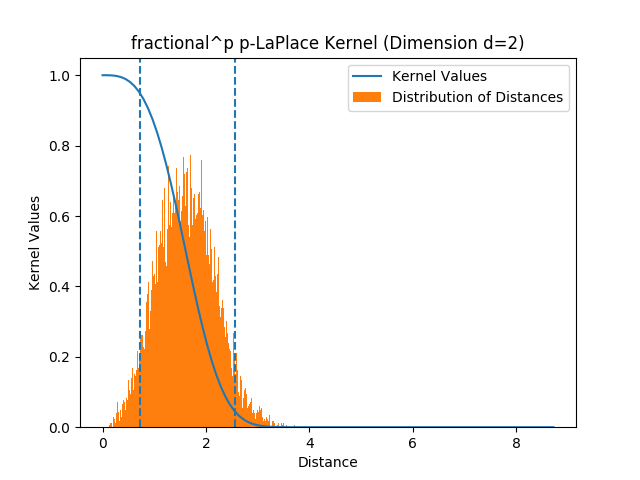
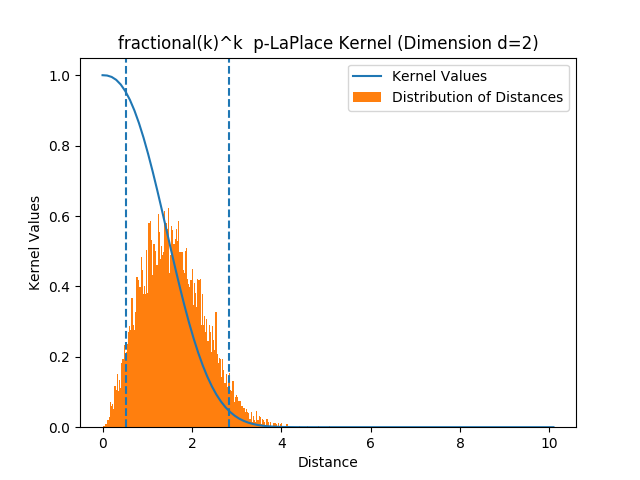
updated hist of kernel values with mean+-3sigma

diff --git a/Presentation 1/Code/c9_fpk_p_kernels.py b/Presentation 1/Code/c9_fpk_p_kernels.py
@@ -7,7 +7,7 @@ from kernel_implementations import *
 dimensions = [ 2, 10, 100 ]
 N = 10000 
 
-k = 0.6
+k = 0.8
 df1 = lambda x : get_distances(x,order=k)**k 
 
 for dim in dimensions:
@@ -28,7 +28,7 @@ for dim in dimensions:
 	ax.axvline(d_95,ls='--')
 	ax.set_xlabel('Distance')
 	ax.set_ylabel('Kernel Values')
-	ax.set_title("fractional^p p-Gaussian (Dimension d="+str(dim)+")")
+	ax.set_title("fractional(k)^k  p-Gaussian (Dimension d="+str(dim)+")")
 	ax.legend() 
 	fig.savefig('../Graphs/g9_improvement_fp_Gaussian_dim='+str(dim)+'.png')
 
@@ -50,7 +50,7 @@ for dim in dimensions:
 	ax.axvline(d_95,ls='--')
 	ax.set_xlabel('Distance')
 	ax.set_ylabel('Kernel Values')
-	ax.set_title("fractional^p p-Rational Quadratic (Dimension d="+str(dim)+")")
+	ax.set_title("fractional(k)^k p-Rational Quadratic (Dimension d="+str(dim)+")")
 	ax.legend() 
 	fig.savefig('../Graphs/g9_improved_fp_RationalQuadratic_dim='+str(dim)+'.png')
 
@@ -73,7 +73,7 @@ for dim in dimensions:
 	ax.axvline(d_95,ls='--')
 	ax.set_xlabel('Distance')
 	ax.set_ylabel('Kernel Values')
-	ax.set_title("fractional^p p-Inverse Multi-Quadratic (Dimension d="+str(dim)+")")
+	ax.set_title("fractional(k)^k  p-Inverse Multi-Quadratic (Dimension d="+str(dim)+")")
 	ax.legend() 
 	fig.savefig('../Graphs/g9_improved_fp_InverseMultiQuadratic_dim='+str(dim)+'.png')
 
@@ -97,7 +97,7 @@ for dim in dimensions:
 	ax.axvline(d_95,ls='--')
 	ax.set_xlabel('Distance')
 	ax.set_ylabel('Kernel Values')
-	ax.set_title("fractional^p p-Cauchy (Dimension d="+str(dim)+")")
+	ax.set_title("fractional(k)^k  p-Cauchy (Dimension d="+str(dim)+")")
 	ax.legend() 
 	fig.savefig('../Graphs/g9_improved_fp_Cauchy_dim='+str(dim)+'.png')
 
@@ -120,7 +120,7 @@ for dim in dimensions:
 	ax.axvline(d_95,ls='--')
 	ax.set_xlabel('Distance')
 	ax.set_ylabel('Kernel Values')
-	ax.set_title("fractional^p p-Matern Kernel (Dimension d="+str(dim)+")")
+	ax.set_title("fractional(k)^k  p-Matern Kernel (Dimension d="+str(dim)+")")
 	ax.legend() 
 	fig.savefig('../Graphs/g9_improved_fp_Matern_dim='+str(dim)+'.png')
 
@@ -142,7 +142,7 @@ for dim in dimensions:
 	ax.axvline(d_95,ls='--')
 	ax.set_xlabel('Distance')
 	ax.set_ylabel('Kernel Values')
-	ax.set_title("fractional^p p-LaPlace Kernel (Dimension d="+str(dim)+")")
+	ax.set_title("fractional(k)^k  p-LaPlace Kernel (Dimension d="+str(dim)+")")
 	ax.legend() 
 	fig.savefig('../Graphs/g9_improved_fp_LaPlace_dim='+str(dim)+'.png')
 

diff --git a/Presentation 1/Code/c11_histogram_of_kernel_values.py b/Presentation 1/Code/c11_histogram_of_kernel_values.py
@@ -27,24 +27,28 @@ for dim in dimensions:
 	# kernel_vals1 = gaussian_kernel(dist_vals,sigma1) 
 	# kernel_vals2 = gaussian_kernel(dist_vals,sigma2) 
 
+	mean, stddev = np.mean(actual_distances), np.std(actual_distances,ddof=1)
+	a,b = gaussian_kernel(np.array([mean-3*stddev,mean+3*stddev]),sigma)
 
-	fig,ax=plt.subplots()
+
+
+	fig,ax=plt.subplots(figsize=(10,6))
 	# ax.plot(dist_vals,kernel_vals1,label="Kernel Values ($\sigma$="+str(sigma1)[:4]+")") 
 	# ax.plot(dist_vals,kernel_vals,label="Kernel Values ($\sigma$="+str(sigma)[:4]+")") 
 	# ax.plot(dist_vals,kernel_vals2,label="Kernel Values ($\sigma$="+str(sigma2)[:4]+")") 
 	ax.hist(kernel_vals,bins=100,density=True) 
-	# ax.axvline(df1(d_5),ls='--',color='r')
-	# ax.text(d_5,0.7,'$5 \\%$')
-	# ax.axvline(df1(d_95),ls='--',color='r')
-	# ax.text(d_95,0.7,'$95 \\%$')
+	ax.axvline(a,ls='--',color='r')
+	ax.text(a,13,'$K(\mu-3\sigma)=$'+str(a)[:4])
+	ax.axvline(b,ls='--',color='r')
+	ax.text(b,13,'$K(\mu+3\sigma)=$'+str(b)[:4])
 	ax.set_title("Histogram of Kernel Values (Dimension D="+str(dim)+")")
 	ax.set_xlabel('Kernel Values')
 	ax.set_ylabel('Frequency')
-	ax.set_ylim(0.0,1.0)
-	ax.set_xlim(0.0,1.0)
+	ax.set_ylim(0.0,15)
+	ax.set_xlim(0,1)
 	ax.legend() 
 	fig.savefig('../Graphs/g11_histogram_of_kernel_values_dim='+str(dim)+'.png')
 
-# plt.show()
+	# plt.show()
 
 
